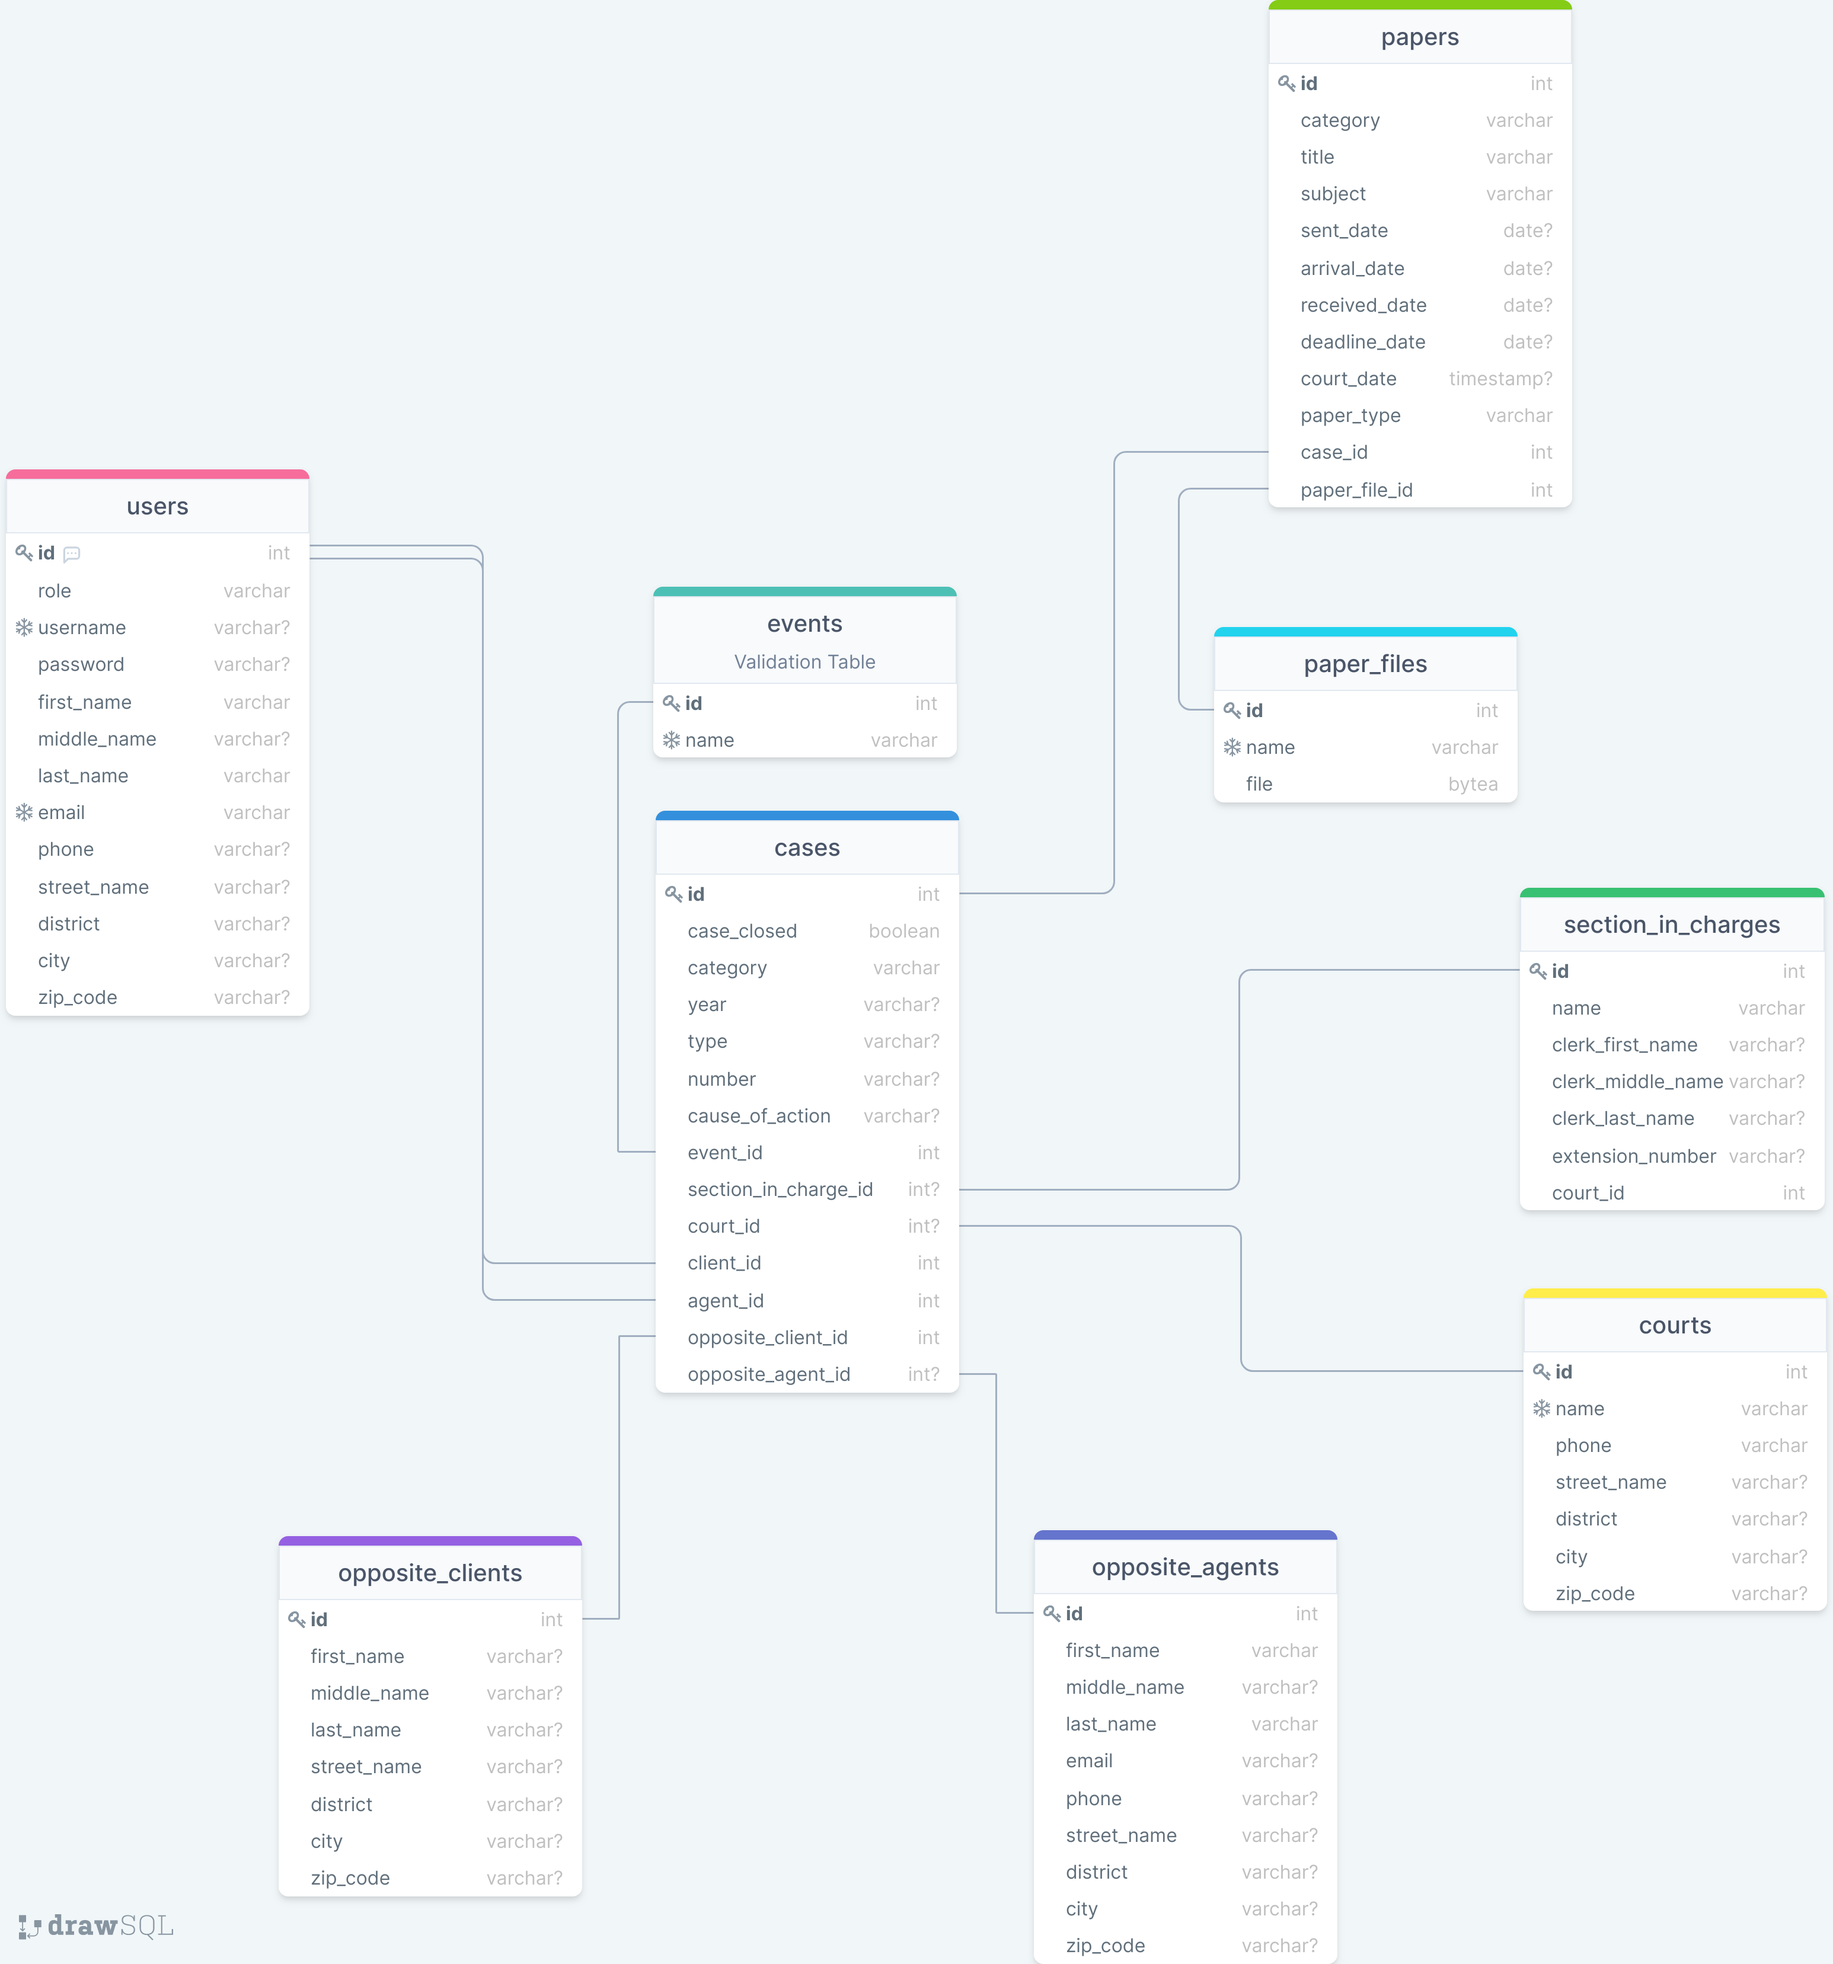
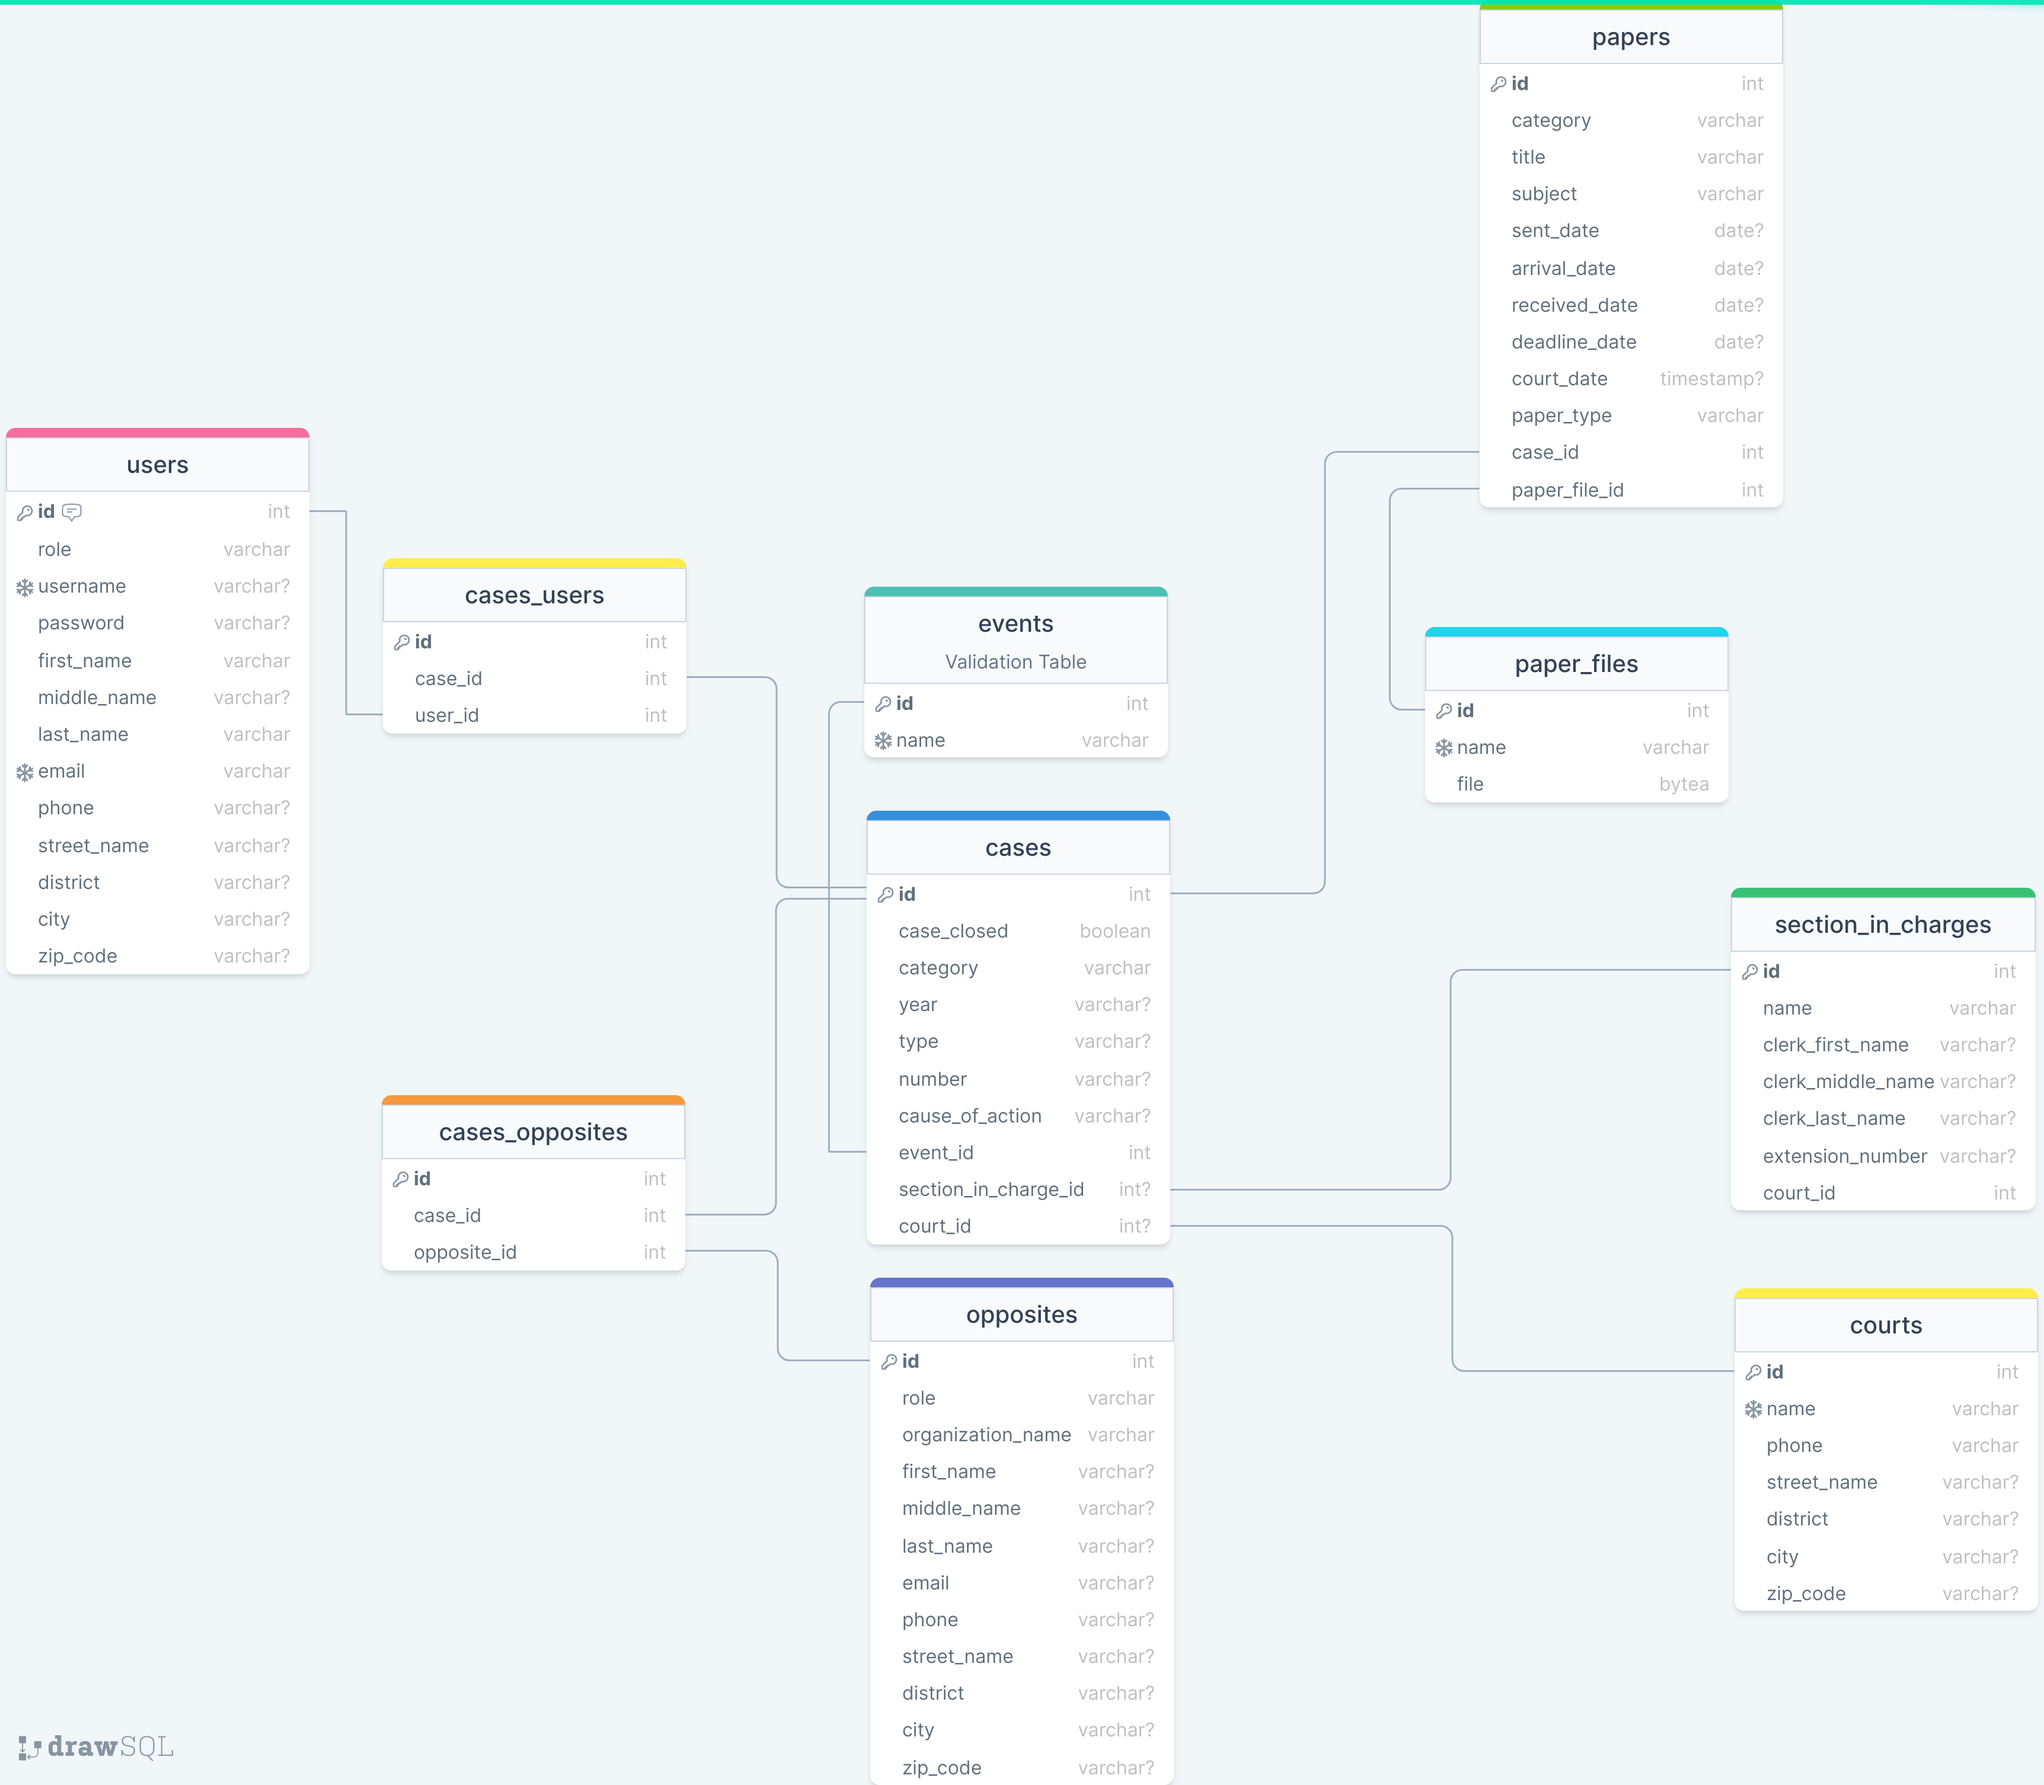
Modify cases tablb. Add cases_users and cases_opposites tables

diff --git a/README.md b/README.md
@@ -125,7 +125,7 @@ At the same time, `docker-compose` will also create a network and put the contai
 
 ## Database Schema
 
-![Database Schema](attorneytech-database-schema.png)
+![Database Schema](images/attorneytech-database-schema.png)
 
 [docker-compose-example]: <docker-compose-example.yaml>
 
@@ -230,21 +230,29 @@ Basically, in a law firm, it can be said that it operates by handling cases. Cre
 | type                  | VARCHAR(50)          | Means “案號字別” in Chinese. For example, like “訴”, “上”, “重訴”, “勞訴”, etc.                                                                                             |
 | number                | VARCHAR(20)          | Number of cases                                 |
 | cause_of_action       | VARCHAR(100)              | Which means “案由” in Chinese like “拆屋還地”          |
-| event_id              |INTEGER NOT NULL      | References the id column in event, marks the same case in whole lawsuit procedure to one event|
-| section_in_charges_id | INTEGER              | References the id column in section_in_charge, indicates which section in charge is handling this case |
-| court_id             | INTEGER              |References the id column in court, indicates which court is handling this case            |
-| user_id             | INTEGER     | References the id column in user to identify which user was involved in this case              |
-| opposite_id    | INTEGER              | References the id column in opposite, to identify which opposite was involved in this
+| event_id              |INTEGER NOT NULL      | References the id column in events, marks the same case in whole lawsuit procedure to one event|
+| section_in_charges_id | INTEGER              | References the id column in section_in_charges, indicates which section in charge is handling this case |
+| court_id             | INTEGER              |References the id column in courts, indicates which court is handling this case            |
 
-#### `paper_files`
+#### `cases_users`
 
-Paper's files
+Join table of cases and users
 
-| Column | Data Type                    | Description                           |
-| :---   | :----                        | :---                                  |
-| id     | INTEGER                      | An unique ID of paper file            |
-| name   | VARCHAR(100) UNIQUE NOT NULL | Name of aper file                     |
-| file   | bytea NOT NULL               | Paper file, store in bytea data type. |
+| Column  | Data Type | Description                       |
+| :---    | :----     | :---                              |
+| id      | INTEGER   | An unique ID of cases_users       |
+| case_id | INTEGER   | References the id column in cases |
+| user_id | INTEGER   | References the id column in users |
+
+#### `cases_opposites`
+
+Join table of cases and opposites
+
+| Column      | Data Type | Description                           |
+| :---        | :----     | :---                                  |
+| id          | INTEGER   | An unique ID of cases_opposites       |
+| case_id     | INTEGER   | References the id column in cases     |
+| opposite_id | INTEGER   | References the id column in opposites |
 
 #### `papers`
 
